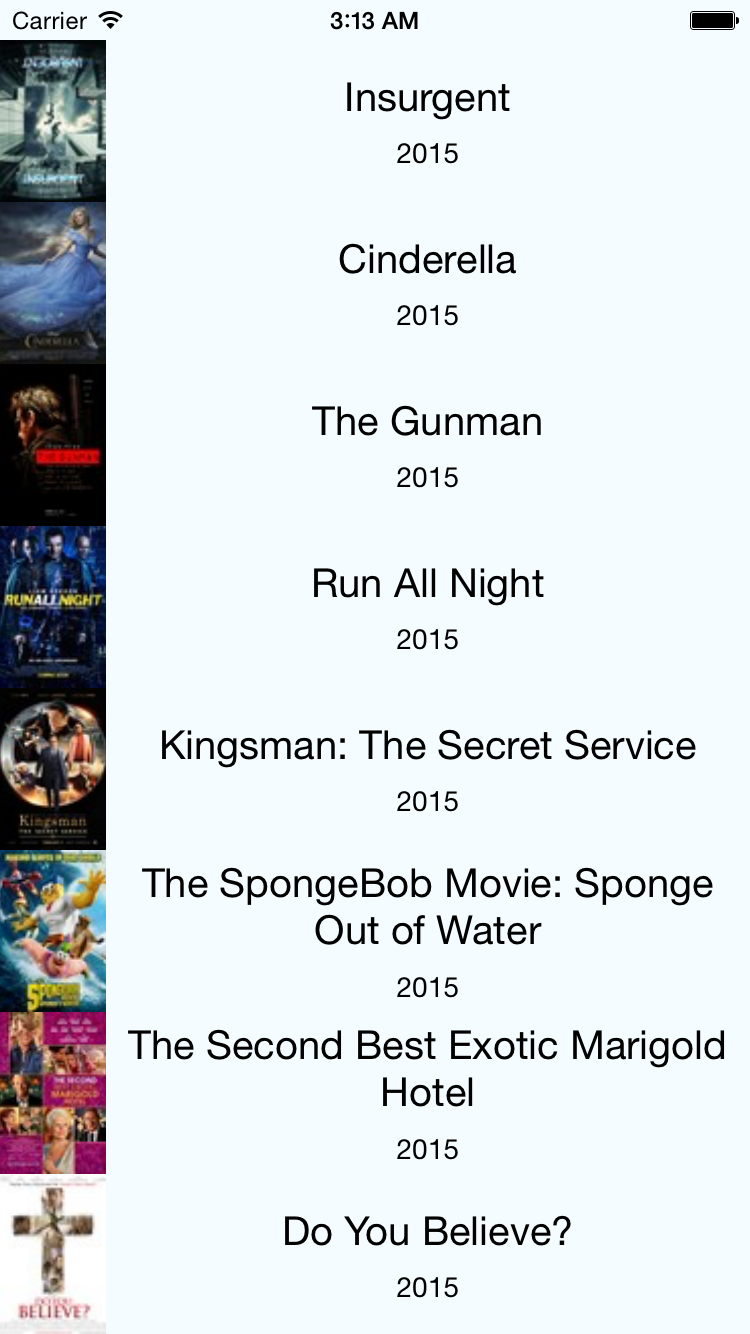
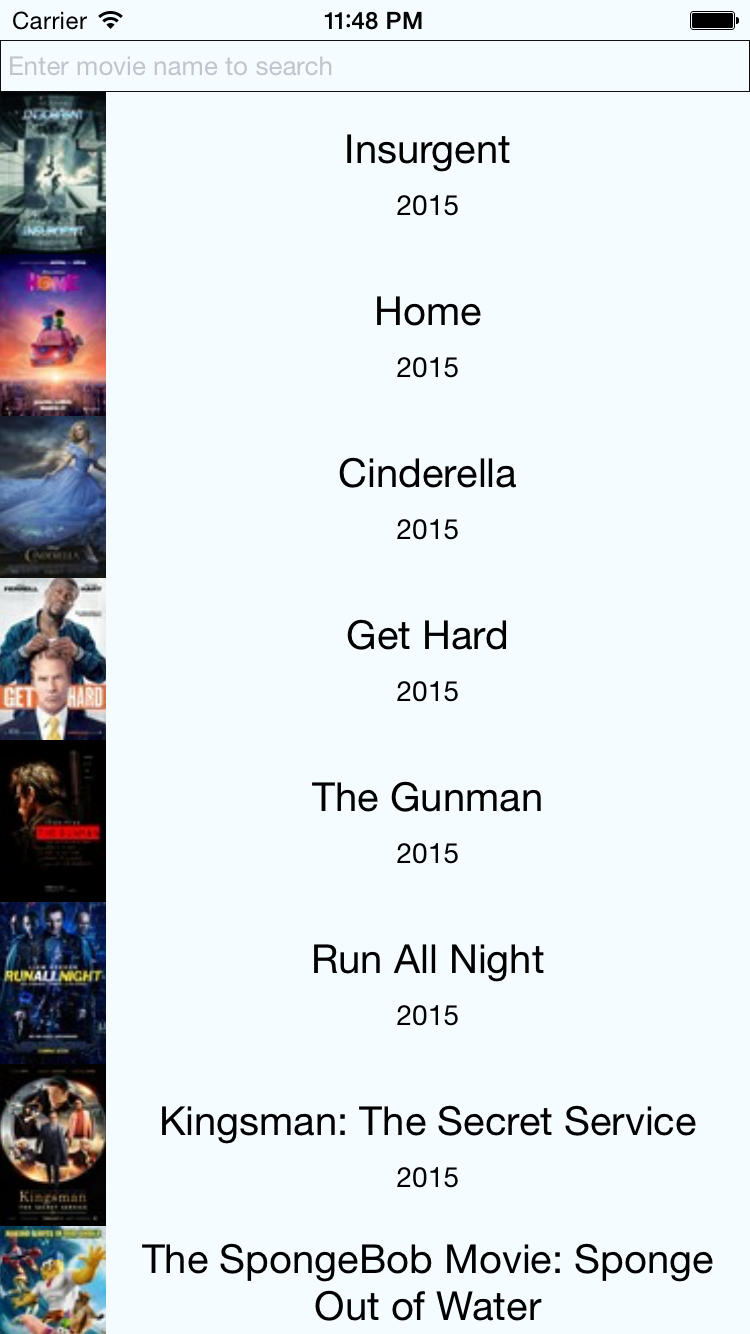
add movies search scene

diff --git a/index.ios.js b/index.ios.js
@@ -8,6 +8,7 @@ var {
   ListView,
   Navigator,
   Text,
+  TextInput,
   TouchableHighlight,
   View,
 } = React;
@@ -42,6 +43,9 @@ var AppNavigator = React.createClass({
     if (route.name === MovieDetailsScene.routeName) {
       props.movieId = route.movieId;
       return React.createElement(MovieDetailsScene, props);
+    } else if (route.name === MovieSearchScene.routeName) {
+      props.movieQuery = route.movieQuery;
+      return React.createElement(MovieSearchScene, props);
     } else {
       // default
       return React.createElement(CurrentMoviesScene, props);
@@ -120,7 +124,7 @@ var CurrentMoviesScene = React.createClass({
       .done();
   },
 
-  render: function() {
+  renderList: function() {
     if (!this.state.loaded) {
       return this.renderLoadingView();
     }
@@ -129,10 +133,18 @@ var CurrentMoviesScene = React.createClass({
       dataSource: this.state.dataSource,
       renderRow: function(movie) {
         return MovieCardFactory(assign(movie, {navigator: self.props.navigator}));
-      },
-      style: styles.listView
+      }
     };
     return React.createElement(ListView, props);
+  },
+
+  render: function() {
+    return (
+      <View style={styles.mainContainer}>
+        <SearchInput navigator={this.props.navigator} query='' />
+        {this.renderList()}
+      </View>
+    );
   }
 });
 
@@ -208,9 +220,115 @@ var MovieDetailsScene = React.createClass({
           dataSource: this.state.similarMovies,
           renderRow: function(movie) {
             return MovieCardFactory(assign(movie, {navigator: this.props.navigator}));
-          }
+          }.bind(this)
         })}
       </View>
+    );
+  }
+});
+
+var MovieSearchScene = React.createClass({
+  mixins: [BaseViewMixin],
+  propTypes: {
+    movieQuery: React.PropTypes.string.isRequired,
+    navigator: React.PropTypes.object.isRequired
+  },
+  statics: {
+    routeName: 'Movie Search'
+  },
+  getInitialState: function() {
+    return {
+      dataSource: new ListView.DataSource({
+        rowHasChanged: (row1, row2) => row1 !== row2,
+      }),
+      loaded: false
+    };
+  },
+  fetchData: function() {
+    var REQUEST_URL = 'http://209.237.233.58/api/public/v1.0/movies/?apikey=shsxnfe3v2ggydvua7u2mtt8&q=' + encodeURIComponent(this.props.movieQuery);
+    fetch(REQUEST_URL)
+      .then((response) => response.json())
+      .then((responseData) => {
+        if (responseData.error) {
+          this.setState({
+            error: responseData.error,
+            loaded: true
+          });
+          return;
+        }
+        if (!responseData.movies || !responseData.movies.length) {
+          this.setState({
+            error: 'No results.',
+            loaded: true
+          });
+          return;
+        }
+        this.setState({
+          dataSource: this.state.dataSource.cloneWithRows(responseData.movies),
+          loaded: true,
+        });
+      })
+      .done();
+  },
+  componentDidMount: function() {
+    this.fetchData();
+  },
+  renderList: function() {
+    if (!this.state.loaded) {
+      return this.renderLoadingView();
+    }
+    if (this.state.error) {
+      return React.createElement(Text, {style: styles.movieDetailsViewBlock}, this.state.error);
+    }
+    var self = this;
+    var props ={
+      dataSource: this.state.dataSource,
+      renderRow: function(movie) {
+        return MovieCardFactory(assign(movie, {navigator: self.props.navigator}));
+      }
+    };
+    return React.createElement(ListView, props);
+  },
+  render: function() {
+
+    var self = this;
+
+    return (
+      <View style={styles.movieDetailsViewContainer}>
+        {this.renderNavBar()}
+        <SearchInput navigator={this.props.navigator} query={this.props.movieQuery} ref='searchInput' />
+        {this.renderList()}
+      </View>
+    );
+  }
+});
+
+var SearchInput = React.createClass({
+  getInitialState: function() {
+    return {input: ''};
+  },
+  propTypes: {
+    navigator: React.PropTypes.object.isRequired,
+    query: React.PropTypes.string.isRequired
+  },
+  submitQuery: function() {
+    this.props.navigator.push({
+      name: MovieSearchScene.routeName,
+      movieQuery: this.state.input
+    });
+  },
+  componentDidMount: function() {
+    this.setState({input: this.props.query});
+  },
+  render: function() {
+    return (
+      <TextInput style={styles.topSearchInput}
+        placeholder="Enter movie name to search"
+        onChangeText={(text) => this.setState({input: text})}
+        onEndEditing={this.submitQuery}
+        onSubmitEditing={this.submitQuery}
+        value={this.state.input} >
+      </TextInput>
     );
   }
 });

diff --git a/styles.ios.js b/styles.ios.js
@@ -27,7 +27,7 @@ module.exports = StyleSheet.create({
     width: 53,
     height: 81,
   },
-  listView: {
+  mainContainer: {
     paddingTop: 20,
     backgroundColor: '#F5FCFF',
   },
@@ -47,5 +47,13 @@ module.exports = StyleSheet.create({
     justifyContent: 'center',
     alignItems: 'center',
     backgroundColor: '#3A9425'
-  }
+  },
+  topSearchInput: {
+    height: 26,
+    borderWidth: 0.5,
+    borderColor: '#0f0f0f',
+    padding: 4,
+    flex: 1,
+    fontSize: 13,
+  },
 });

diff --git a/README.md b/README.md
@@ -1,4 +1,7 @@
 ##Hello World
 
 ![screenshot](scene-hp.png)
+* * *
+![screenshot](scene-search.png)
+* * *
 ![screenshot](scene-details.png)
